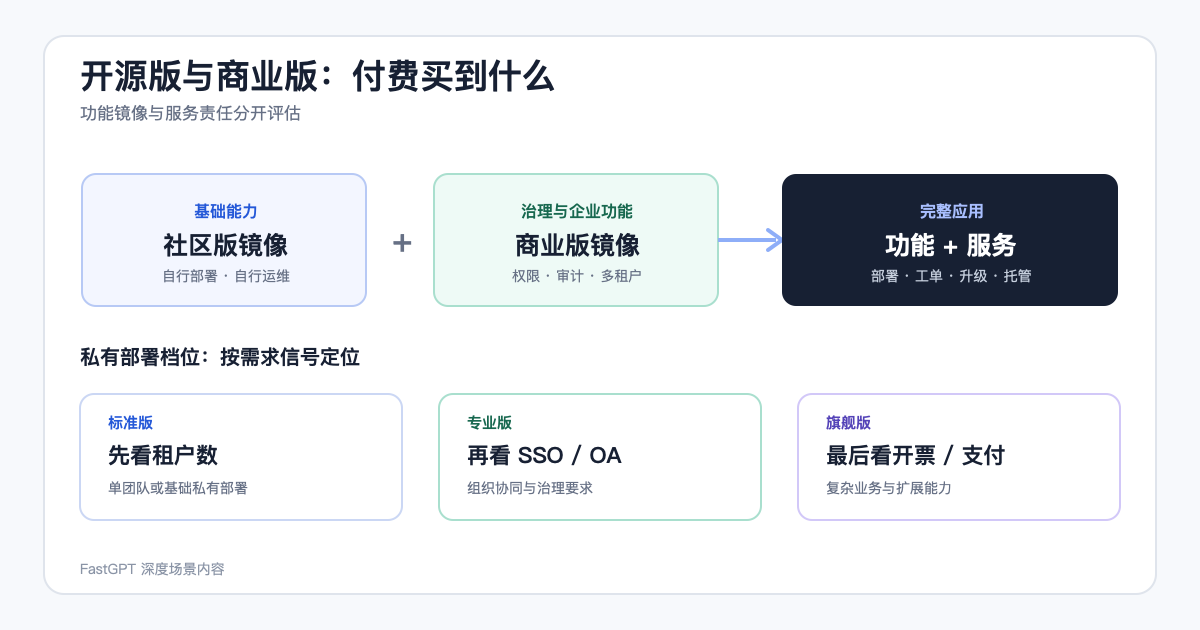
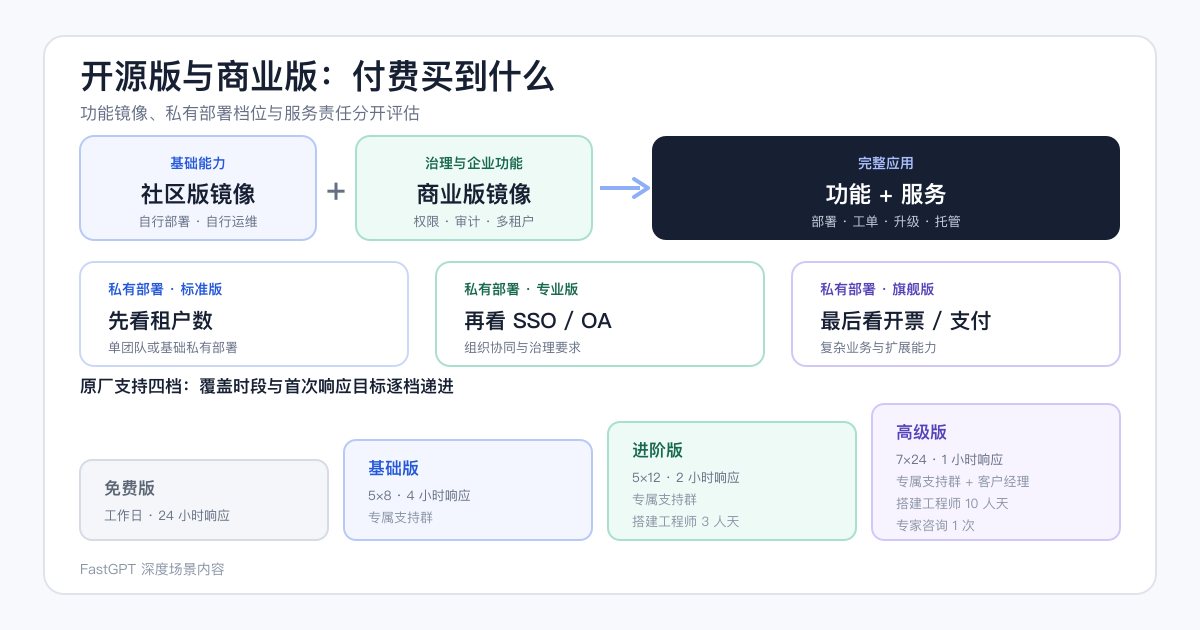
feat(content): move W3 deep content from /tutorial/ to /guide/ (#327)
* feat(content): move W3 deep content from /tutorial/ to /guide/

The four deep-scenario articles now sit in the /guide/ path family on the
China Site, matching the deep-content column mapping used by the rest of
the Technical Center.

- Move the four Markdown sources, their front-matter slugs, and internal
  cross links under /guide/.
- Reindex entries.json and the public search projection as
  /guide/<slug> with the troubleshoot category.
- Retire /tutorial/<slug> and /zh/tutorial/<slug> through 301 redirects to
  https://fastgpt.cn/guide/<slug>; the IO Site never served these routes.
- Extend verify:deep-content with the retired-route and redirect-map
  assertions so the mapping stays enforced.

English sources for the IO Site are still pending client delivery.

* feat(content): upgrade W3 deep content articles to V1.1 with vendor support dimension

Land the approved V1.1 revision of two W3 deep content articles on top of
the /guide/ migration:

- self-hostable-platform-selection: add "原厂支持与责任边界" as a fourth comparison
  variable, renumber the previous fourth variable to five, update the
  governance matrix row, the five-step next-step list, and the publication
  metadata.
- open-source-vs-commercial: replace the 2.3 support summary with the
  four-tier support table plus the service-scope table, split the 2.5
  service rows, and update the publication metadata.
- Rebuild both decision graphics to carry the new dimension and the new
[…]

Changed region(s): [[0.0617, 0.0905, 0.9558, 0.9048]]

diff --git a/scripts/verify-deep-content.js b/scripts/verify-deep-content.js
@@ -1,6 +1,8 @@
 const fs = require('node:fs');
 const path = require('node:path');
 const crypto = require('node:crypto');
+const { buildRedirects } = require('./lib/redirects');
+const { getProductionBaseUrls } = require('./lib/site-variant');
 
 const root = process.cwd();
 const entries = JSON.parse(
@@ -12,21 +14,21 @@ const articles = [
     metaTitle: '私有化部署企业知识库：拓扑与出站边界怎么定',
     metaDescription:
       '从组件拓扑、向量库选型、六类出站源三层说明私有化部署的数据边界到底由什么决定，给出哪些环节可换成内网组件、采购前应逐项确认的数据流清单，以及用威胁用例验证出站策略的方法。',
[2 lines of base64/hex data omitted]
   },
   {
     slug: 'self-hostable-platform-selection',
-    metaTitle: '可私有化的开源 AI 应用平台：四个固定比较变量',
+    metaTitle: '可私有化的开源 AI 应用平台：五个固定比较变量',
     metaDescription:
-      '功能勾选表分不出高下，真正决定选型的是许可证边界、部署门槛、治理能力落在哪个版本、三年总成本这四个变量。本文给出各项核实方法、同条件验证前提，以及公开资料未列出为何不等于不支持。',
[1 lines of base64/hex data omitted]
+      '功能勾选表分不出高下，真正决定选型的是许可证边界、部署门槛、治理能力落在哪个版本、原厂支持与责任边界、三年总成本这五个变量。本文给出各项的核实方法与同条件验证前提。',
[1 lines of base64/hex data omitted]
   },
   {
     slug: 'open-source-vs-commercial',
-    metaTitle: '开源版与商业版差在哪：付费买到的功能与服务',
+    metaTitle: '开源版与商业版差在哪：功能、原厂支持与服务',
     metaDescription:
-      '用官方「社区版镜像加商业版镜像」的口径说明付费买到的功能与服务分别是什么，给出私有部署三档的选型顺序、必选可选未来功能表模板，以及什么情况下现在还不该升级的判断依据。',
[1 lines of base64/hex data omitted]
+      '用官方「社区版镜像加商业版镜像」的口径说明付费买到什么，含原厂支持四个档位的时段与响应目标、私有部署三档选型顺序、必选可选未来功能表，以及何时还不该升级。',
[1 lines of base64/hex data omitted]
   },
   {
     slug: 'ai-support-build-or-buy',
@@ -69,14 +71,17 @@ function getBody(source) {
 
 for (const article of articles) {
   const { slug } = article;
-  const route = `/zh/tutorial/${slug}`;
+  const route = `/zh/guide/${slug}`;
   const matchingEntries = entries.filter((entry) => entry.slug === route);
   if (matchingEntries.length !== 1) throw new Error(`${route}: expected one index entry`);
+  if (entries.some((entry) => entry.slug === `/zh/tutorial/${slug}`)) {
+    throw new Error(`${route}: the retired /tutorial/ route is still indexed`);
+  }
   if (matchingEntries[0].sourceType !== '深度场景内容') {
     throw new Error(`${route}: invalid source type`);
   }
 
-  const articlePath = path.join(root, `src/content/tech-center/tutorial/${slug}.md`);
+  const articlePath = path.join(root, `src/content/tech-center/guide/${slug}.md`);
   const source = fs.readFileSync(articlePath, 'utf8').replace(/\r\n?/g, '\n');
   const metadata = parseFrontMatter(source);
 
@@ -131,6 +136,17 @@ for (const article of articles) {
             path.join(root, `src/content/tech-center/${segments[1]}/${segments[2]}.md`)
           );
     if (!targetExists) throw new Error(`${route}: missing internal link target ${target}`);
+  }
+}
+
+const cnBaseUrl = getProductionBaseUrls().cn;
+const { cnRedirects } = buildRedirects(root);
+for (const { slug } of articles) {
+  const target = `${cnBaseUrl}/guide/${slug}`;
+  for (const source of [`/tutorial/${slug}`, `/zh/tutorial/${slug}`]) {
+    if (cnRedirects.get(source) !== target) {
+      throw new Error(`${source}: expected a 301 to ${target}`);
+    }
   }
 }
 

diff --git a/scripts/verify-technical-content.test.js b/scripts/verify-technical-content.test.js
@@ -250,7 +250,7 @@ test('public search projection contains only discovery fields and matches the re
   const projection = buildSearchProjection(entries);
   const zhProjection = projection.filter((entry) => entry.locale === 'zh');
   const enProjection = projection.filter((entry) => entry.locale === 'en');
-  const firstEntry = entries.find((entry) => entry.slug === '/zh/tutorial/private-deployment-topology');
+  const firstEntry = entries.find((entry) => entry.slug === '/zh/guide/private-deployment-topology');
 
   assert.deepEqual(Object.keys(projection[0]), [
     'identity',
@@ -262,13 +262,13 @@ test('public search projection contains only discovery fields and matches the re
     'sourceType',
     'minutes'
   ]);
-  assert.deepEqual(projection.find((entry) => entry.identity === 'zh|/tutorial/private-deployment-topology'), {
-    identity: 'zh|/tutorial/private-deployment-topology',
+  assert.deepEqual(projection.find((entry) => entry.identity === 'zh|/guide/private-deployment-topology'), {
+    identity: 'zh|/guide/private-deployment-topology',
     title: firstEntry.title,
     description: firstEntry.summary,
     category: firstEntry.category,
     locale: 'zh',
-    publicPath: '/tutorial/private-deployment-topology',
+    publicPath: '/guide/private-deployment-topology',
     sourceType: firstEntry.sourceType,
     minutes: firstEntry.minutes
   });

diff --git a/scripts/lib/redirects.js b/scripts/lib/redirects.js
@@ -168,6 +168,24 @@ function getTechPaths(rootDir) {
   return getTechIdentities(rootDir).map((identity) => identity.sourcePath);
 }
 
+// The deep-content column moved from /tutorial/ to /guide/ in 2026-09, so the retired China
+// Site addresses stay in the redirect map. The IO Site never served these routes.
+const RETIRED_DEEP_CONTENT_SLUGS = [
+  'ai-support-build-or-buy',
+  'open-source-vs-commercial',
+  'private-deployment-topology',
+  'self-hostable-platform-selection'
+];
+
+function getRetiredDeepContentRedirects() {
+  return RETIRED_DEEP_CONTENT_SLUGS.flatMap((slug) =>
+    ['/tutorial/', '/zh/tutorial/'].map((prefix) => [
+      `${prefix}${slug}`,
+      `/guide/${slug}`
+    ])
+  );
+}
+
 function getTechIdentities(rootDir) {
   const entries = JSON.parse(
     fs.readFileSync(path.join(rootDir, 'src', 'components', 'tech-center', 'entries.json'), 'utf8')
@@ -245,6 +263,10 @@ function buildRedirects(rootDir, env = process.env) {
   const aliasAuthority = readUrlAliasAuthority(rootDir);
   const ioRedirects = new Map();
   const cnRedirects = new Map();
+
+  for (const [source, targetPath] of getRetiredDeepContentRedirects()) {
+    addRedirect(cnRedirects, source, `${cnUrl}${targetPath}`);
+  }
 
   for (const [sourceHost, redirects] of [
     ['fastgpt.cn', cnRedirects],

diff --git a/scripts/verify-technical-export.test.js b/scripts/verify-technical-export.test.js
@@ -75,9 +75,9 @@ test('technical identities are unique and retain their owner-relative paths', ()
   const identities = getTechIdentities(root);
   assert.equal(identities.length, EXPECTED_TECHNICAL_PAGE_COUNT);
   assert.equal(new Set(identities.map((identity) => identity.key)).size, identities.length);
-  const tracer = identities.find((identity) => identity.key === 'zh|/tutorial/private-deployment-topology');
-  assert.equal(tracer.sourcePath, '/zh/tutorial/private-deployment-topology');
-  assert.equal(tracer.canonicalPath, '/tutorial/private-deployment-topology');
+  const tracer = identities.find((identity) => identity.key === 'zh|/guide/private-deployment-topology');
+  assert.equal(tracer.sourcePath, '/zh/guide/private-deployment-topology');
+  assert.equal(tracer.canonicalPath, '/guide/private-deployment-topology');
 });
 
 test('same-slug technical identities keep only the active production owner route', () => {

diff --git a/scripts/verify-i18n-seo.js b/scripts/verify-i18n-seo.js
@@ -24,7 +24,7 @@ const variant = resolveSiteVariant();
 const defaultLocale = getDefaultLocale(variant);
 const baseUrls = getProductionBaseUrls();
 const baseUrl = getCanonicalBaseUrl(variant);
-const techPath = '/tutorial/private-deployment-topology';
+const techPath = '/guide/private-deployment-topology';
 const compareSlugs = [
   'dify-vs-fastgpt',
   'ragflow-vs-fastgpt',

diff --git a/src/content/tech-center/guide/self-hostable-platform-selection.md b/src/content/tech-center/guide/self-hostable-platform-selection.md
@@ -1,23 +1,23 @@
 ---
-slug: /zh/tutorial/self-hostable-platform-selection
+slug: /zh/guide/self-hostable-platform-selection
 page_type: 深度场景内容
 schema_type: Article
-meta_title: 可私有化的开源 AI 应用平台：四个固定比较变量
-meta_description: 功能勾选表分不出高下，真正决定选型的是许可证边界、部署门槛、治理能力落在哪个版本、三年总成本这四个变量。本文给出各项核实方法、同条件验证前提，以及公开资料未列出为何不等于不支持。
-keywords: 开源 AI 平台选型, 可私有化部署, 开源许可证, 三年 TCO, POC 验证
+meta_title: 可私有化的开源 AI 应用平台：五个固定比较变量
+meta_description: 功能勾选表分不出高下，真正决定选型的是许可证边界、部署门槛、治理能力落在哪个版本、原厂支持与责任边界、三年总成本这五个变量。本文给出各项的核实方法与同条件验证前提。
+keywords: 开源 AI 平台选型, 可私有化部署, 开源许可证, 原厂支持, 三年 TCO
 date_published: 2026-08-03
 date_modified: 2026-08-13
 image: /images/tech-center/deep-content/self-hostable-platform-selection.png
-image_alt: 可私有化开源 AI 应用平台选型的四个固定比较变量示意图
+image_alt: 可私有化开源 AI 应用平台选型的五个固定比较变量示意图
 image_width: 1200
 image_height: 630
 ---
 
-# 可私有化的开源 AI 应用平台怎么选：四个固定比较变量
+# 可私有化的开源 AI 应用平台怎么选：五个固定比较变量
 
-**同类产品的功能列表重叠度很高，靠勾选表几乎分不出高下。真正决定选型结果的是四个变量：许可证到底允许你做什么、部署门槛落在哪一档、你需要的治理能力属于哪个版本、以及同一口径下的三年总成本。**
+**同类产品的功能列表重叠度很高，靠勾选表几乎分不出高下。真正决定选型结果的是五个变量：许可证到底允许你做什么、部署门槛落在哪一档、你需要的治理能力属于哪个版本、原厂支持与责任边界怎么划，以及同一口径下的三年总成本。**
 
-这四个变量的共同特点是：都可以从官方公开资料里查证，都能写进采购文件，也都会在项目跑了半年之后真实地影响成本。相比之下，功能条目的多寡在选型阶段看起来重要，在运营期反而很少被提起。
+这五个变量的共同特点是：都可以从官方公开资料里查证或向厂商书面确认，都能写进采购文件，也都会在项目跑了半年之后真实地影响成本。相比之下，功能条目的多寡在选型阶段看起来重要，在运营期反而很少被提起。
 
 本文只使用各方官网、官方文档、官方仓库、官方定价页与公开发布记录中可验证的事实，核验日 **2026-07-20**。文中出现「官方公开资料未列出」时，这是一句事实陈述，**不等于对方无法通过企业版交付或二次开发实现**；涉及关键能力时，应当向厂商书面确认后再下结论。
 
@@ -37,7 +37,7 @@ image_height: 630
 
 ---
 
-## 2. 可落地拆解：四个变量分别怎么查
+## 2. 可落地拆解：五个变量分别怎么查
 
 ### 变量一：许可证边界——查三条，不查名字
 
@@ -69,11 +69,35 @@ image_height: 630
 | 审计日志与保留时长 | 版本 + 保留天数（若公开） |
 | 配额与用量治理 | 版本 + 可控维度 |
 | 外部同步与部门信息隔离并存 | 各家现状，需书面确认 |
-| 原厂支持档位与响应目标 | 档位名称；具体响应与恢复指标以合同为准 |
+| 版本是否绑定支持档位 | 该版本对应哪一档支持（档位本身见变量四） |
 
 填完之后会出现一个常见结果：**同一个产品的不同版本之间的差别，大于两个产品之间的差别。** 这正是这张表的价值——它把选型问题从「选哪家」还原成「选哪家的哪一档」。
 
-### 变量四：三年总成本——给口径，不给数字
+### 变量四：原厂支持与责任边界——查四件事，不比品牌大小
+
+前三个变量决定买什么，这一个变量决定出事之后谁负责。它在选型阶段最容易被当成附加条款一带而过，却会在上线后的第一次故障、第一次版本升级、第一次安全评审里直接兑现成成本与工期。
+
+要查的是四件事，而且只有写进合同的部分才算成立：
+
+1. **支持档位与服务时间**——覆盖时段（工作日 / 5×8 / 5×12 / 7×24）、首次响应目标、支持渠道（工单 / 专属支持群 / 客户经理）、是否含安全补丁与新功能支持；
+2. **交付范围**——软件许可之外是否包含安装部署、调试与原厂维保，集群部署、额外服务器与定制开发是否另行报价；
+3. **责任矩阵**——故障如何分级、谁负责定位、谁负责恢复、升级回滚由哪一方执行、现场支持的触发条件；
+4. **升级与退出**——三年内的版本升级是否额外收费，退出时的数据导出与迁移协助由谁承担。
+
+| 候选 | 截至核验日公开可见的支持形态 | 采购前必须书面确认 |
+|---|---|---|
+| FastGPT | 商业服务可交付；技术支持分四档，覆盖时段从工作日逐档扩到 7×24，首次响应目标按档位递进，所有付费档位含安全补丁、新功能支持与远程线上协助，付费档起有专属支持群、最高档增加客户经理；私有部署交付范围可含安装部署、调试与原厂维保 | 具体可用性、首次响应与恢复指标；集群、额外服务器与定制开发是否另行报价 |
+| Dify | Enterprise 路线询价，SLA 按合同 | 档位划分与响应目标；社区版是否附带任何支持承诺 |
+| MaxKB | 专业版 5×8、企业版 7×24 的档位口径公开 | 可用性、RTO / RPO 与恢复目标 |
+| RAGFlow | Enterprise 提供专属支持与自定义 SLA，数值询价 | 自定义 SLA 的实际可承诺区间 |
+| HiAgent | 原厂咨询与交付，SLA 数值未公开 | 档位、响应与恢复指标，以及交付责任边界 |
+| 自研 / 直接跑开源 | 没有原厂这一栏；社区渠道属互助性质 | 自己的值班表、on-call 轮换与升级演练由谁执行 |
+
+**首次响应目标不等于在同一时限内完成修复。** 未在报价单、服务清单或合同里书面约定的指标，都不应被当作承诺——这条对所有候选一视同仁，也包括本文引用的任何档位口径，引用前应按当期服务清单复核。
+
+最后一行最值得停一下：**自研在这个变量上无法提供「便宜」的选项，对应的状态为「没有」。** 社区 Issue 与社区群是善意的互助，写不进采购文件；把这一栏折算成自己的值班与 on-call 人天，自研与采购平台的三年成本才可比。另外，原厂交付能力是真实优势，但它降低的风险仍然取决于合同里的版本、拓扑、数据出域、SLA、升级、退出迁移与价格调整条款——判断这一项的方法是索取责任矩阵、数据流图、退出迁移方案与续费条款；厂商规模不足以作为依据。
+
+### 变量五：三年总成本——给口径，不给数字
 
 价格、套餐与版本边界属于高频变化数据，任何写进文章的价格数字都可能在读者看到时已经失效。因此这里给的是**同一口径的成本项清单与计算模板，价格栏留空由采购方按各家官网当日页面自行填写**。
 
@@ -139,8 +163,8 @@ image_height: 630
 
 ## 5. 下一步
 
-选型的推荐顺序是：先用四个变量缩小到 2–3 个候选 → 再用治理能力矩阵确认各自需要哪一档版本 → 然后在同一条件下跑 POC → 最后按同一口径算三年成本。四步都完成之后，结论通常是自明的。
+选型的推荐顺序是：先用五个变量缩小到 2–3 个候选 → 再用治理能力矩阵确认各自需要哪一档版本 → 同时把支持档位与责任矩阵要到手 → 然后在同一条件下跑 POC → 最后按同一口径算三年成本。五步都完成之后，结论通常是自明的。
 
 - 与 Dify 的逐项对照与 POC 判据：见[Dify 与 FastGPT 对比页](/zh/compare/dify-vs-fastgpt)
-- 社区版与商业版的功能与服务边界：见[开源版与商业版说明](/zh/tutorial/open-source-vs-commercial)
-- 私有化部署的组件拓扑与出站边界：见[私有化部署拓扑说明](/zh/tutorial/private-deployment-topology)
+- 社区版与商业版的功能与服务边界、四个支持档位的差别：见[开源版与商业版说明](/zh/guide/open-source-vs-commercial)
+- 私有化部署的组件拓扑与出站边界：见[私有化部署拓扑说明](/zh/guide/private-deployment-topology)

diff --git a/src/content/tech-center/guide/open-source-vs-commercial.md b/src/content/tech-center/guide/open-source-vs-commercial.md
@@ -1,14 +1,14 @@
 ---
-slug: /zh/tutorial/open-source-vs-commercial
+slug: /zh/guide/open-source-vs-commercial
 page_type: 深度场景内容
 schema_type: Article
-meta_title: 开源版与商业版差在哪：付费买到的功能与服务
-meta_description: 用官方「社区版镜像加商业版镜像」的口径说明付费买到的功能与服务分别是什么，给出私有部署三档的选型顺序、必选可选未来功能表模板，以及什么情况下现在还不该升级的判断依据。
-keywords: 开源版, 商业版, License, 私有部署版本选型, 社区版
+meta_title: 开源版与商业版差在哪：功能、原厂支持与服务
+meta_description: 用官方「社区版镜像加商业版镜像」的口径说明付费买到什么，含原厂支持四个档位的时段与响应目标、私有部署三档选型顺序、必选可选未来功能表，以及何时还不该升级。
+keywords: 开源版, 商业版, License, 原厂支持档位, 私有部署版本选型
 date_published: 2026-08-03
 date_modified: 2026-08-13
 image: /images/tech-center/deep-content/open-source-vs-commercial.png
-image_alt: FastGPT 社区版镜像、商业版镜像与三档私有部署版本关系图
+image_alt: FastGPT 社区版镜像、商业版镜像、三档私有部署版本关系图与原厂支持四档阶梯图
 image_width: 1200
 image_height: 630
 ---
@@ -65,11 +65,28 @@ image_height: 630
 
 ### 2.3 付费还买到服务，这一层经常被漏算
 
-官方在功能之外提供的服务包括：首次部署协助、优先问题工单、升级、全托管，以及场景落地支持，具体范围以当期商业方案为准。技术支持分为四个档位，所有付费档位均包含安全补丁、新功能支持与远程线上协助，培训权益与服务折扣按档位不同。支持渠道方面，免费版为工单支持，付费版本提供专属支持群，高级版增加专属客户经理。
+官方在功能之外提供的服务包括：首次部署协助、优先问题工单、升级、全托管，以及场景落地支持，具体范围以当期商业方案为准。原厂支持分四个档位，差别落在三处——覆盖时段与首次响应目标、支持渠道、上手与成功资源：
+
+| 支持档位 | 服务时间与首次响应目标 | 支持渠道 | 上手及成功资源 |
+|---|---|---|---|
+| 免费版 | 工作日工作时间内，24 小时响应 | 工单支持 | 培训中心课程；客户自行更新版本 |
+| 基础版 | 5×8（10:00—18:00），4 小时响应 | 专属支持群 | 远程协助、每年 5 个最佳实践案例、每月直播、1 个测试环境 |
+| 进阶版 | 5×12（8:00—20:00），2 小时响应 | 专属支持群 | 官方每年更新 4 次、每年 10 个案例、1 次线上培训、搭建工程师 3 人天、2 个测试环境 |
+| 高级版 | 7×24，1 小时响应 | 专属支持群 + 客户经理 | 官方每年更新 12 次、3 次线上培训、搭建工程师 10 人天、1 次专家咨询、3 个测试环境 |
+
+**所有付费档位都含安全补丁、新功能支持与远程线上协助**，档位之间真正拉开差距的是响应时段与上手资源。私有部署的交付范围除软件 License 之外，可包含安装部署、调试与原厂技术维保，集群版本可按项目需求提供集群部署支持；额外服务器、定制开发与专项服务应另行报价并写入订单与合同。**这一层具体包含什么，可以对照下表向商务逐项确认：**
+
+| 这一层包含什么 | 具体内容 |
+|---|---|
+| 对接方式 | 由原厂团队直接对接交付，不经外包中转；技术答疑、故障排查与配置调试由原厂工程师负责 |
+| 工程师配置 | 配备专职 FDE 智能体工程师，承接业务调研、方案定制、开发部署与上线运维 |
+| 部署与维保 | 私有部署交付范围可含软件 License、安装部署、调试与原厂技术维保 |
+| 试点验证 | 可申请 POC 试点验证，轮次与范围以商务确认为准 |
+| 持续赋能 | 线下全国用户沙龙；商业版客户每月线上直播培训、功能解读与实操教学 |
 
 估算这一层价值的方法是把它折算成人天：**如果没有这层服务，首次部署、版本升级、故障定位这三件事各需要自己投入多少人天，以及这些人天是否具备。** 这个折算结果往往比功能差异更能解释价格。
 
-需要说明的是，具体的响应时限、恢复目标、维保期限、现场支持范围应在报价单、服务清单或合同中逐项确认；**首次响应不等同于在同一时限内完成修复，未书面约定的指标不应被视为承诺。**
+需要说明的是，上表是核验日的官方档位口径；具体的响应时限、恢复目标、维保期限、故障分级、现场支持范围与定制 SLA 应在报价单、服务清单或合同中逐项确认；**首次响应不等同于在同一时限内完成修复，未书面约定的指标不应被视为承诺。**
 
 ### 2.4 私有部署三档：按三步选，不按预算选
 
@@ -96,7 +113,9 @@ image_height: 630
 | 独立开票 / 支付模块 | | | | |
 | Agent 与 Skill 辅助生成 | | | | |
 | 首次部署协助 | | | | |
-| 优先工单与响应档位 | | | | |
+| 支持档位（覆盖时段与首次响应目标） | | | | |
+| 专属支持群 / 客户经理 | | | | |
+| 搭建工程师人天与测试环境数 | | | | |
 | 升级支持 | | | | |
 | 全托管 | | | | |
 
@@ -135,5 +154,5 @@ image_height: 630
 建议顺序是：先用 2.5 的表把需求分成必选、可选、未来三档 → 再按租户数、SSO 与 OA、开票支付三步定位私有部署档位 → 然后在 POC 中实测权限与日志 → 最后与商务确认当期价格、维保范围与授权期限。
 
 - 各档位包含内容与当期价格：见[FastGPT 价格页](/zh/price)
-- 私有化部署的组件拓扑与出站边界：见[私有化部署拓扑说明](/zh/tutorial/private-deployment-topology)
-- 四个技术支持档位的权益与渠道差别：见[支持与服务档位 FAQ](/zh/faq/support-tiers)
+- 私有化部署的组件拓扑与出站边界：见[私有化部署拓扑说明](/zh/guide/private-deployment-topology)
+- 各支持档位的合同化指标（可用性、恢复目标、维保期限、现场支持）：见[支持与服务档位 FAQ](/zh/faq/support-tiers)

diff --git a/src/content/tech-center/guide/private-deployment-topology.md b/src/content/tech-center/guide/private-deployment-topology.md
@@ -1,5 +1,5 @@
 ---
-slug: /zh/tutorial/private-deployment-topology
+slug: /zh/guide/private-deployment-topology
 page_type: 深度场景内容
 schema_type: Article
 meta_title: 私有化部署企业知识库：拓扑与出站边界怎么定
@@ -119,4 +119,4 @@ image_height: 630
 
 - 部署形态与商业版私有化交付范围：见[私有化部署边界 FAQ](/zh/faq/private-deployment-data-boundary)
 - Docker 部署路径与向量库配置：见[FastGPT 自部署配置说明](/zh/tutorial/fastgpt-self-host-config)
-- 社区版与商业版在治理能力上的边界：见[开源版与商业版说明](/zh/tutorial/open-source-vs-commercial)
+- 社区版与商业版在治理能力上的边界：见[开源版与商业版说明](/zh/guide/open-source-vs-commercial)

diff --git a/src/content/tech-center/guide/ai-support-build-or-buy.md b/src/content/tech-center/guide/ai-support-build-or-buy.md
@@ -1,5 +1,5 @@
 ---
-slug: /zh/tutorial/ai-support-build-or-buy
+slug: /zh/guide/ai-support-build-or-buy
 page_type: 深度场景内容
 schema_type: Article
 meta_title: 企业上智能客服：自建开源方案还是买 SaaS 系统
